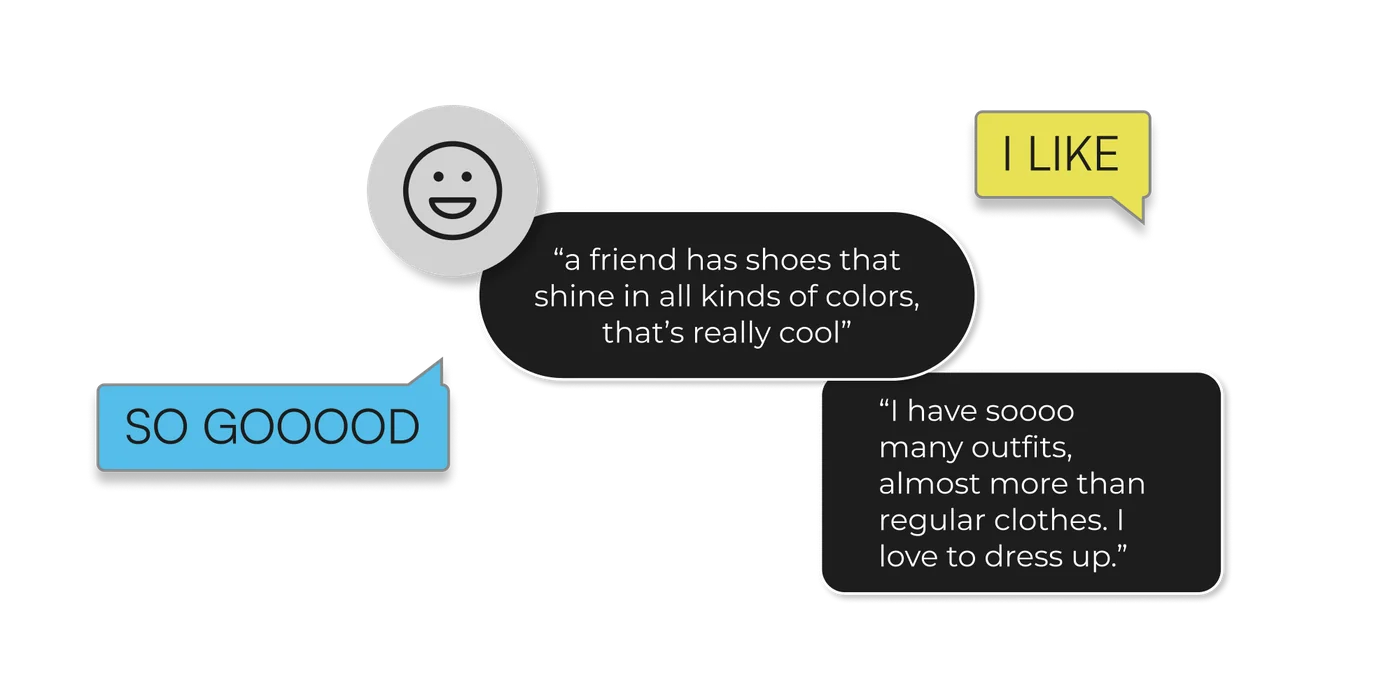
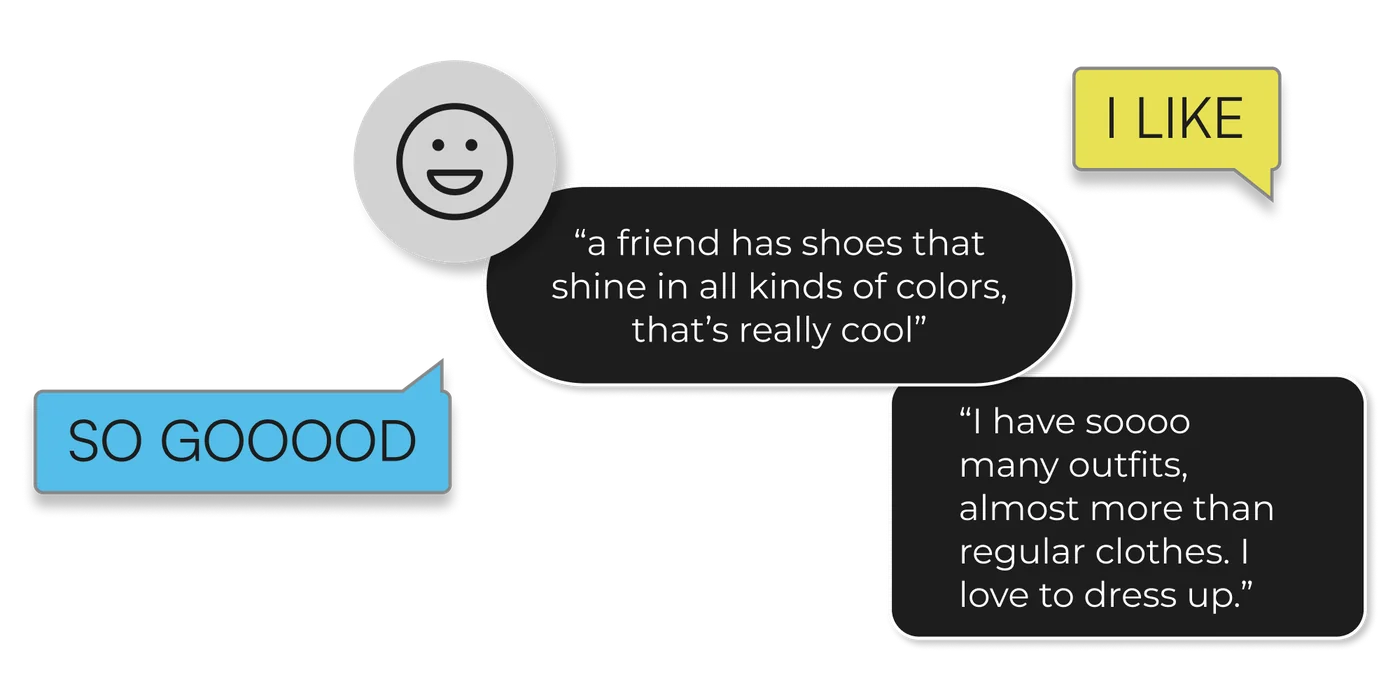
Update Nebulite user quote images with tighter crop

diff --git a/cs-e-commerce.html b/cs-e-commerce.html
@@ -102,8 +102,8 @@
       <p data-only="en">The research revealed three recurring themes:</p>
 
       <div class="cs-pair">
-        <img class="cs-img" src="images/nebulite-quotes-positive.webp" width="1400" height="700" alt="Positive Zitate aus den User Interviews: „a friend has shoes that shine in all kinds of colors, that’s really cool“ und „I have soooo many outfits, almost more than regular clothes. I love to dress up.“" data-i18n-alt="cs.neb.quotesPos">
-        <img class="cs-img" src="images/nebulite-quotes-problems.webp" width="1400" height="700" alt="Kritische Zitate aus den User Interviews: „slow website loading times and lack of the festival atmosphere“ und „product visibility and overview is confusing, too many informations at once“" data-i18n-alt="cs.neb.quotesNeg">
+        <img class="cs-img" src="images/nebulite-quotes-positive.webp?v=2" width="1400" height="700" alt="Positive Zitate aus den User Interviews: „a friend has shoes that shine in all kinds of colors, that’s really cool“ und „I have soooo many outfits, almost more than regular clothes. I love to dress up.“" data-i18n-alt="cs.neb.quotesPos">
+        <img class="cs-img" src="images/nebulite-quotes-problems.webp?v=2" width="1400" height="700" alt="Kritische Zitate aus den User Interviews: „slow website loading times and lack of the festival atmosphere“ und „product visibility and overview is confusing, too many informations at once“" data-i18n-alt="cs.neb.quotesNeg">
       </div>
 
       <div class="cs-themes">
